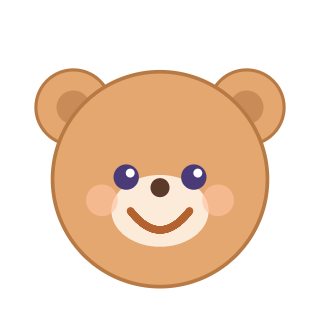
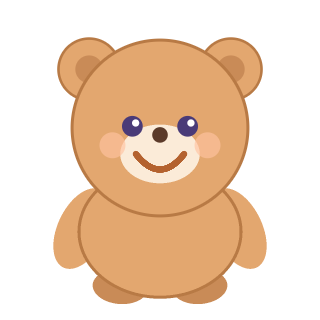
Give kuma/neko/usagi bodies to match the rest of the cast
Feedback: the mascot portraits (kuma/neko/usagi) were face-only while
other characters elsewhere in the app (the pet-friends cat/dog) have
full bodies - inconsistent.

Added a shared drawStandingBody() helper to the hand-rolled PNG
generator (tools/generate-characters.js) that draws a small "chibi"
torso/arms/feet beneath the head, in each character's own fur/outline
colors. Moved each head up and shrank it slightly to make room, but
kept the same 320x320 square canvas and file paths - so every existing
usage (home screen friends row, game tile icons, mascotBubble avatars)
picks up the new art automatically with no markup/CSS changes needed.

Bumped sw.js CACHE_VERSION to v24 so the new PNGs actually reach
devices that already cached the old face-only versions.

diff --git a/tools/generate-characters.js b/tools/generate-characters.js
@@ -22,6 +22,29 @@ function fillCircleOutlined(cv, cx, cy, r, fillColor, outlineColor, outlineWidth
   fillCircle(cv, cx, cy, r, fillColor);
 }
 
+// Small standing "chibi" body (big head, compact torso/arms/legs) drawn
+// beneath the head so every mascot reads consistently as a full character
+// instead of some being face-only portraits and others (like the pet-friends
+// animals) having bodies. Drawn before the head/ears/face so the head
+// naturally overlaps and hides the neck seam.
+function drawStandingBody(cv, cx, headCy, headR, bodyColor, outlineColor, footColor) {
+  const neckY = headCy + headR * 0.72;
+  const bodyRx = headR * 0.92;
+  const bodyRy = headR * 0.74;
+  const bodyCy = neckY + bodyRy * 0.65;
+
+  fillEllipse(cv, cx - bodyRx * 0.5, bodyCy + bodyRy * 0.86, headR * 0.32, headR * 0.2, 0.08, footColor);
+  fillEllipse(cv, cx + bodyRx * 0.5, bodyCy + bodyRy * 0.86, headR * 0.32, headR * 0.2, -0.08, footColor);
+
+  fillEllipse(cv, cx - bodyRx * 0.98, bodyCy - bodyRy * 0.05, headR * 0.28, headR * 0.5, 0.45, bodyColor);
+  fillEllipse(cv, cx + bodyRx * 0.98, bodyCy - bodyRy * 0.05, headR * 0.28, headR * 0.5, -0.45, bodyColor);
+
+  fillEllipse(cv, cx, bodyCy, bodyRx + headR * 0.035, bodyRy + headR * 0.035, 0, outlineColor);
+  fillEllipse(cv, cx, bodyCy, bodyRx, bodyRy, 0, bodyColor);
+
+  return { bodyCy, bodyRx, bodyRy };
+}
+
 function drawFace(cv, cx, cy, r, { blush = '#FFB0C8', mouth = '#FF6FA5' } = {}) {
   const eyeY = cy - r * 0.02;
   const eyeDX = r * 0.32;
@@ -36,11 +59,13 @@ function drawFace(cv, cx, cy, r, { blush = '#FFB0C8', mouth = '#FF6FA5' } = {}) 
 
 function drawBear(size) {
   const cv = makeCanvas(size, size);
-  const cx = size * 0.5, cy = size * 0.56, r = size * 0.33;
+  const cx = size * 0.5, cy = size * 0.4, r = size * 0.27;
   const fur = '#E3A76F';
   const furDark = '#C98B57';
   const outline = '#B87A45';
   const snoutColor = '#FBEBD8';
+
+  drawStandingBody(cv, cx, cy, r, fur, outline, furDark);
 
   // ears (behind head, positioned so most of the circle peeks past the head edge)
   fillCircleOutlined(cv, cx - r * 0.82, cy - r * 0.68, r * 0.34, fur, outline, r * 0.03);
@@ -61,10 +86,12 @@ function drawBear(size) {
 
 function drawCat(size) {
   const cv = makeCanvas(size, size);
-  const cx = size * 0.5, cy = size * 0.56, r = size * 0.33;
+  const cx = size * 0.5, cy = size * 0.4, r = size * 0.27;
   const fur = '#FFEFD9';
   const outline = '#E9C9A0';
   const patch = '#F4A94F';
+
+  drawStandingBody(cv, cx, cy, r, fur, outline, outline);
 
   // ears (triangles, mostly peeking above the head edge)
   fillPolygon(cv, earTriangle(cx, cy, r, -125, 0.8, 0.62, 0.62), outline);
@@ -108,10 +135,12 @@ function drawCat(size) {
 
 function drawRabbit(size) {
   const cv = makeCanvas(size, size);
-  const cx = size * 0.5, cy = size * 0.6, r = size * 0.32;
+  const cx = size * 0.5, cy = size * 0.4, r = size * 0.27;
   const fur = '#FFF8FA';
   const outline = '#F3C9D8';
   const inner = '#FFC2D6';
+
+  drawStandingBody(cv, cx, cy, r, fur, outline, inner);
 
   // ears (long ellipses, behind head)
   fillEllipse(cv, cx - r * 0.42, cy - r * 1.02, r * 0.28, r * 0.34, -0.18, outline);

diff --git a/sw.js b/sw.js
@@ -2,7 +2,7 @@
 // (the whole point: this app is meant to be used out and about).
 // Paths are relative to this file's own location, so it works whether the
 // site is hosted at a domain root or a GitHub Pages project subpath.
-const CACHE_VERSION = 'v23';
+const CACHE_VERSION = 'v24';
 const CACHE_NAME = `asobibako-${CACHE_VERSION}`;
 
 const PRECACHE_URLS = [
